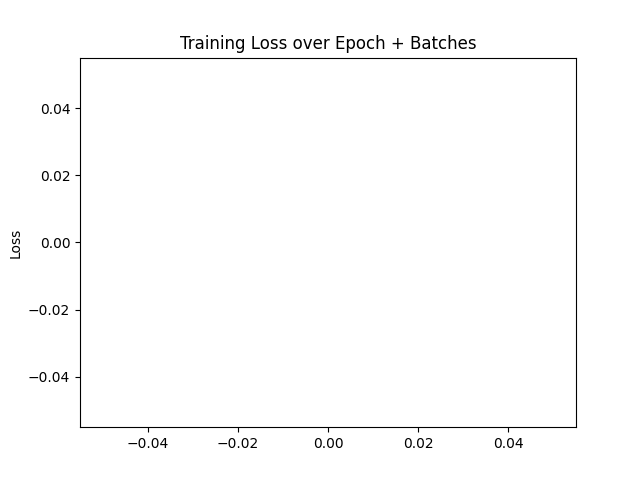
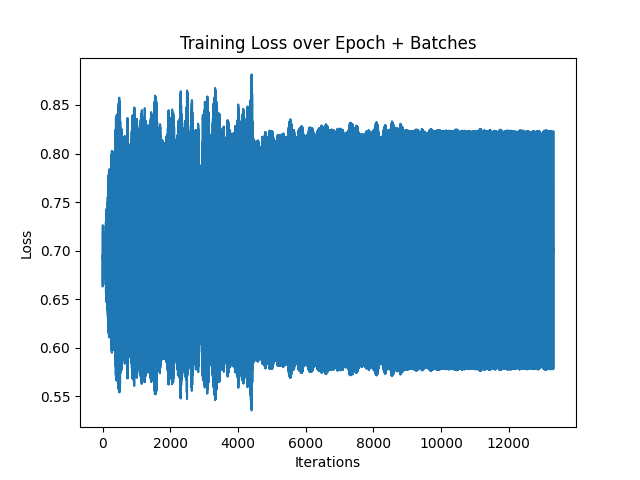
Add files via upload

diff --git a/main.py b/main.py
@@ -6,7 +6,42 @@ import sys
 
 from load import get_loaders
 from train import *
-from test import test
+# =============================================================================
+import torch
+from tqdm import tqdm
+
+# Testing (with validation data)
+def test(model, validation_loader, device):
+    correct = 0
+    total = 0
+
+    model.eval()
+    # since we're not training, we don't need to calculate the gradients for our outputs
+    with torch.no_grad():
+        for data in tqdm(validation_loader):
+            print("testing data = ", data[1])
+            images, labels = data
+
+            images = images.to(device)
+            #labels = labels.to(device)
+
+            # calculate outputs by running images through the network
+            outputs = model(images).to(device)
+            labels = labels.to(device)
+
+
+            # the class with the highest energy is what we choose as prediction
+            _, predicted = torch.max(outputs.data, 1)
+            predicted = predicted.to(device)
+
+            total += labels.size(0)
+            correct += (predicted == labels).sum().item()
+            torch.cuda.empty_cache()
+    print(
+        f'Accuracy of the network on the 10000 test images: {100 * correct // total} %')
+
+
+# =============================================================================
 from models import *
 
 import matplotlib.pyplot as plt
@@ -16,14 +51,17 @@ import numpy as np
 videos_root = os.path.join(os.getcwd(), 'PEDFE_trim')
 annotation_file = os.path.join(videos_root, 'annotations.txt')
 
+import os
+#os.environ["PYTORCH_CUDA_ALLOC_CONF"] = "max_split_size_mb:<enter-size-here>"
+
 # label # to label word
 labels_dict = {0: "posed", 1: "genuine"}
 num_classes = 2
 
-batch_size = 5
+batch_size = 2
 validation_split = .2
 num_frames = 10
-num_training_epochs = 30
+num_training_epochs = 90
 
 
 # runs everything
@@ -70,8 +108,8 @@ if __name__ == "__main__":
     # Number of workers for the dataloader
     num_workers = 0 if device.type == 'cuda' else 2
     # Whether to put fetched data tensors to pinned memory
-    pin_memory = True if device.type == 'cuda' else False
-
+    # pin_memory = True if device.type == 'cuda' else False
+    pin_memory = False
 
     train_loader, validation_loader = get_loaders(dataset, batch_size, validation_split, num_workers=num_workers, pin_memory=pin_memory)
 
@@ -90,7 +128,7 @@ if __name__ == "__main__":
     # train model (if applicable)
     if 'retrain' in sys.argv:
         print("Training model...")
-        training_losses = train2(model, train_loader, num_training_epochs)    
+        training_losses = train2(model, train_loader, num_training_epochs, device)    
 
         iterations = np.arange(training_losses.size)
 
@@ -104,10 +142,15 @@ if __name__ == "__main__":
 
     # save trained model
     PATH = './basic_model.pth'
+
+    torch.cuda.empty_cache()
+
+
     torch.save(model.state_dict(), PATH)
     print(f"Saved trained model as {PATH}")
 
+    
     # Test Data
     print("Testing model against validation data...")
-    test(model, validation_loader)
+    test(model, validation_loader, device)
     print("Validation complete.")

diff --git a/train.py b/train.py
@@ -55,8 +55,7 @@ def train(model, train_loader, num_epochs):
 
 # Similar to above but uses learning rate decay based on epoch
 # Defines loss function and trains model (returns trained model -- maybe train in place)
-def train2(model, train_loader, num_epochs):
-
+def train2(model, train_loader, num_epochs, device):
     print("train 2 active")
     model.train()
 
@@ -64,8 +63,8 @@ def train2(model, train_loader, num_epochs):
     criterion = nn.CrossEntropyLoss()
     optimizer = optim.SGD(model.parameters(), lr=0.001, momentum=0.9)
 
-    # every 5 epochs, learning rate is multiplied by .1
-    lr_scheduler = optim.lr_scheduler.StepLR(optimizer, step_size=15, gamma=0.1)
+    # every 15 epochs, learning rate is multiplied by .1
+    lr_scheduler = optim.lr_scheduler.StepLR(optimizer, step_size=30, gamma=0.2)
 
 
     losses = np.array([])
@@ -73,9 +72,19 @@ def train2(model, train_loader, num_epochs):
     print("Train Model on training data...")
     for epoch in range(num_epochs):
         running_loss = 0
+        torch.cuda.empty_cache()
         for i, batch_data in enumerate(train_loader, 0):
 
+            # Format batch
+            #real_cpu = batch_data.to(device)
+            #b_size = real_cpu.size(0)
+            #label = torch.full((b_size,), 0, device=device).type(torch.float32)  
+
             inputs, labels = batch_data
+
+            inputs = inputs.to(device)
+            labels = labels.to(device)
+
 
             # zero the parameter gradients
             optimizer.zero_grad()
@@ -104,6 +113,7 @@ def train2(model, train_loader, num_epochs):
                 running_loss = 0.0
 
             #print("losses = ", losses)
+            torch.cuda.empty_cache()
 
         lr_scheduler.step()
         

diff --git a/load.py b/load.py
@@ -15,7 +15,7 @@ import torch.optim as optim
 
 # Returns data loaders
 # Returns train_loader, validation_loader
-def get_loaders(dataset, batch_size, validation_split, num_workers=2, pin_memory=True):
+def get_loaders(dataset, batch_size, validation_split, num_workers=2, pin_memory=False):
     # https://stackoverflow.com/questions/50544730/how-do-i-split-a-custom-dataset-into-training-and-test-datasets
     # Creating data indices for training and validation splits:
     dataset_size = len(dataset)
